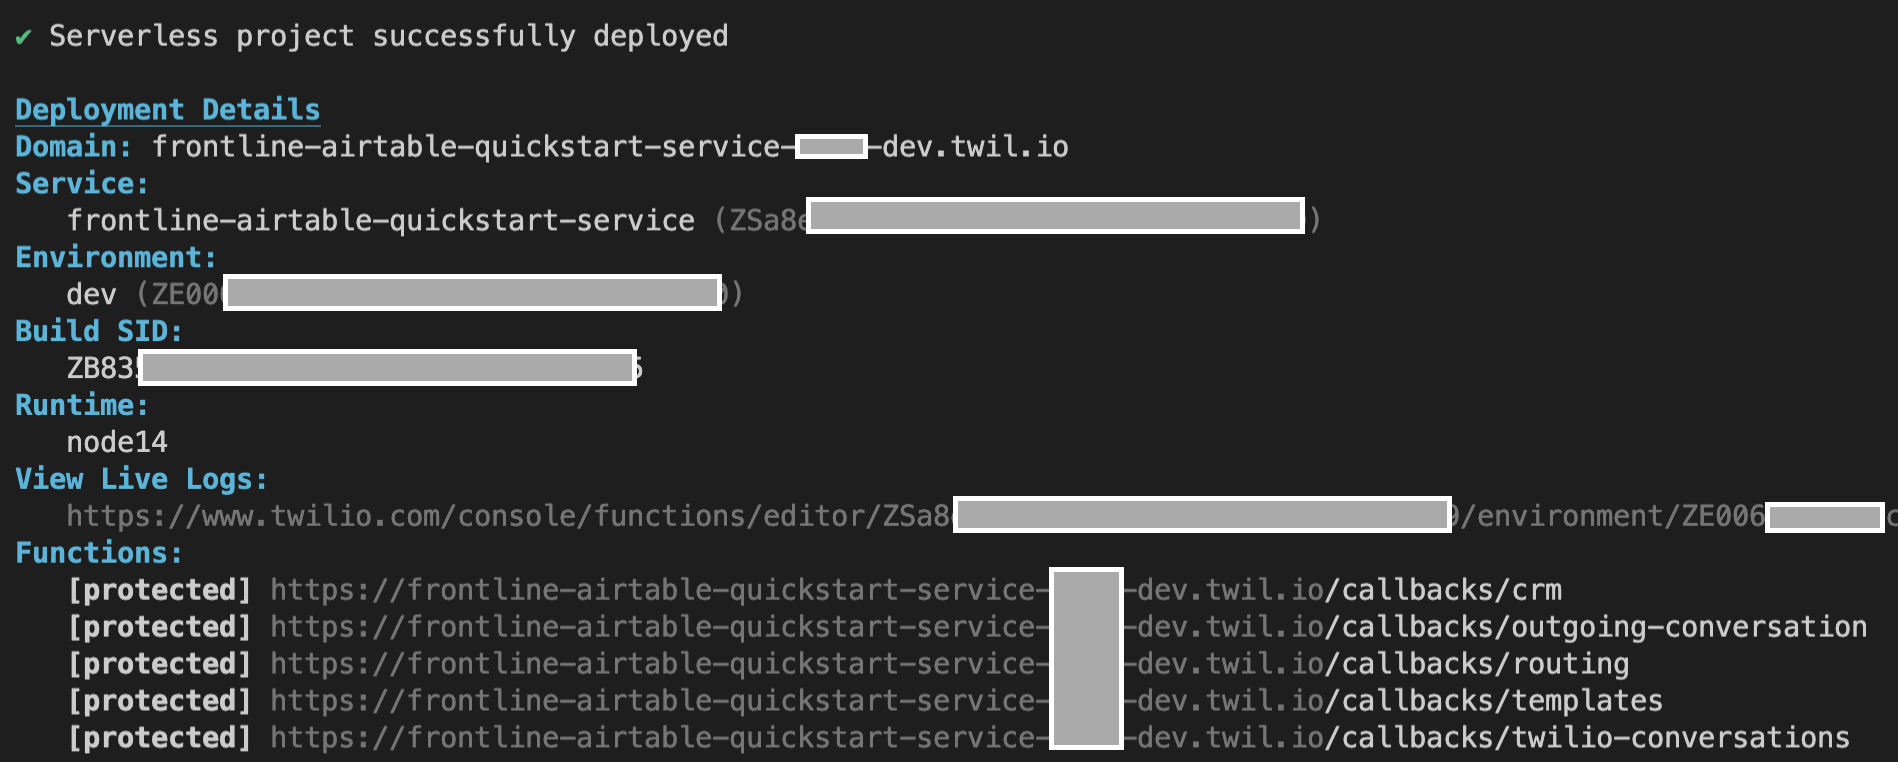
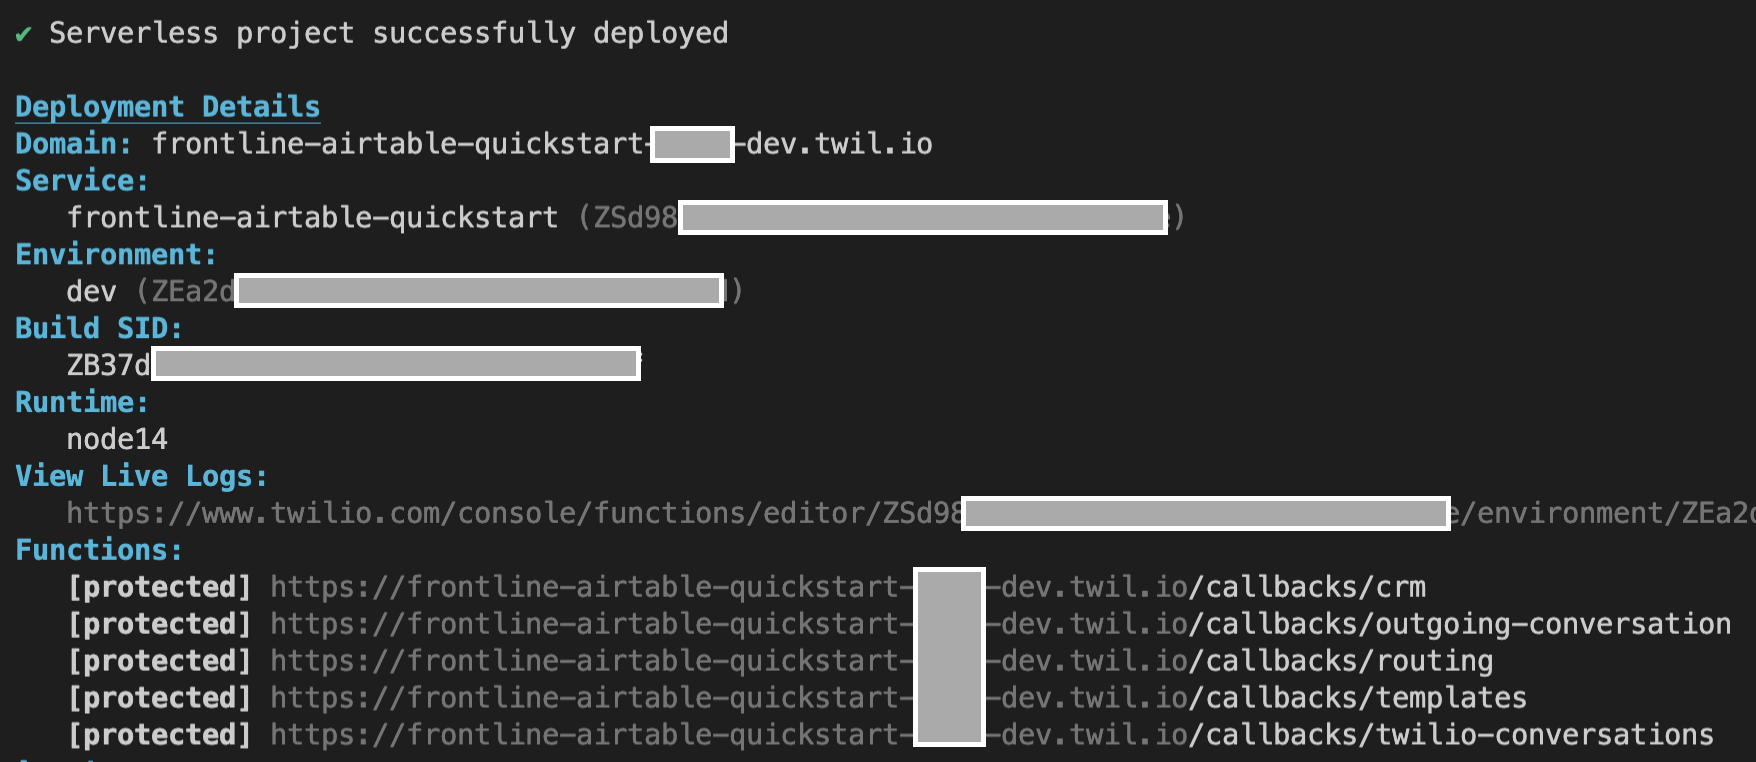
Rename serverless service

diff --git a/README.md b/README.md
@@ -63,7 +63,7 @@ AIRTABLE_BASE_ID= # Your Airtable Base ID
 ## Deploy
 Deploy this Serverless app with one command:
 ```bash
-twilio serverless:deploy --service-name=frontline-airtable-quickstart-service
+twilio serverless:deploy --service-name=frontline-airtable-quickstart
 ```
 > :information_source: **Always deploy to the same Twilio Account as your Frontline Service**: This integration service uses Twilio-signed requests to protect the callback URLs. The callback URLs will reject requests from a different Twilio account with a 403 error. You can check which account you're deploying to with `twilio profiles:list` and add another account with `twilio profiles:add`. 
 
